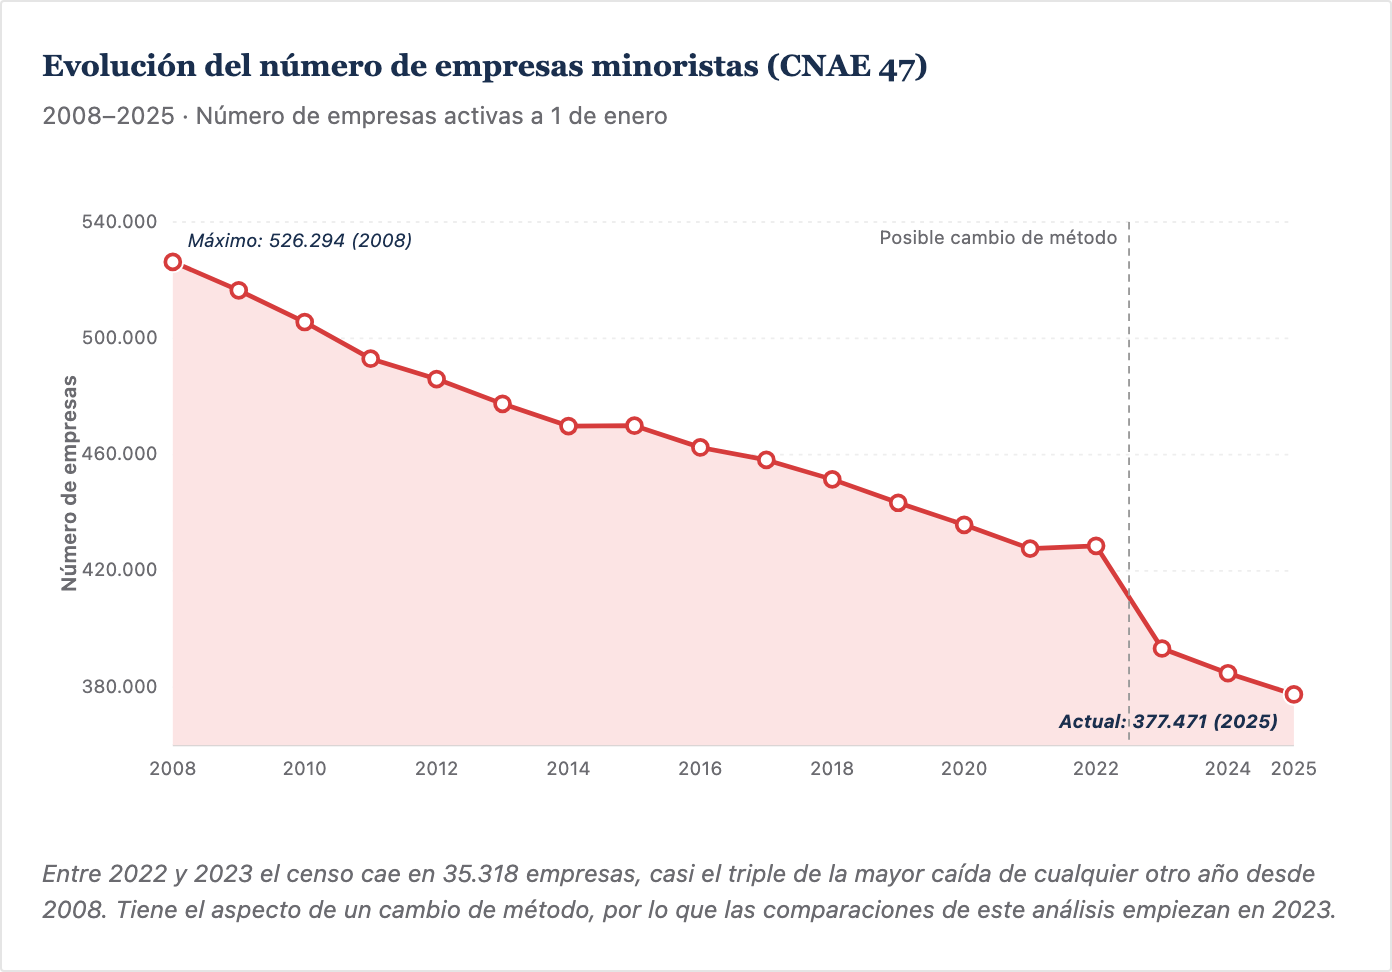
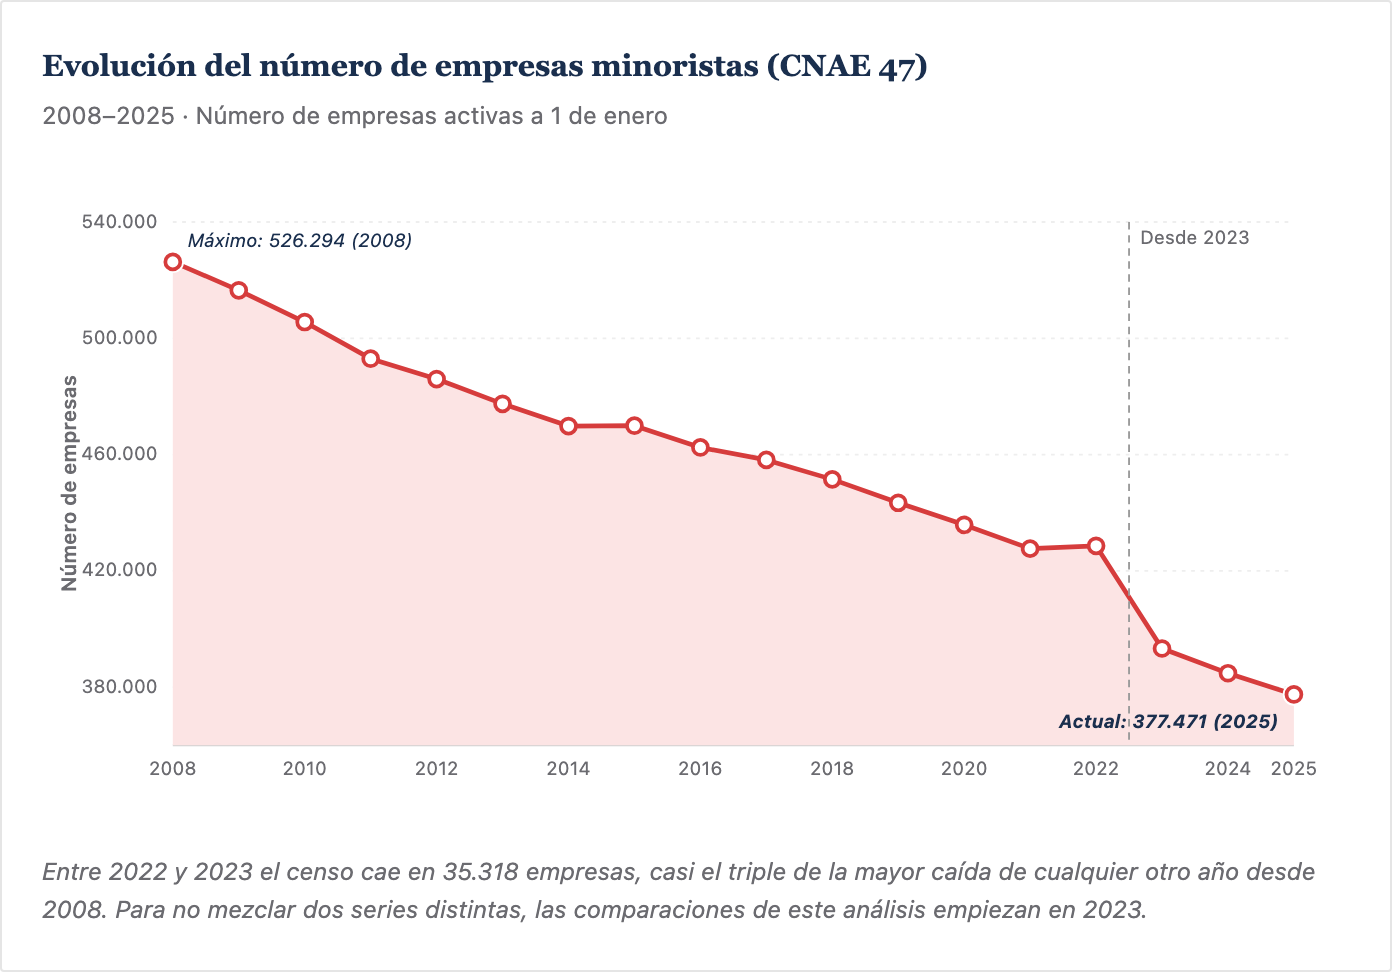
Núm. 22: titular nou, gràfic empreses sense 'cambio de método', predicció en prosa llana

diff --git a/docs/pulso/num-22.html b/docs/pulso/num-22.html
@@ -3,7 +3,7 @@
 <head>
   <meta charset="UTF-8">
   <meta name="viewport" content="width=device-width, initial-scale=1.0">
-  <title>El comercio cobra más y vende lo mismo: el informe del segundo trimestre · El Pulso de la semana</title>
+  <title>Más precio y menos empresas: el informe del segundo trimestre · El Pulso de la semana</title>
   <meta name="description" content="86 de cada 100 euros de crecimiento son precio, las pequeñas cadenas caen un 10% y el comercio pierde 22 empresas al día.">
   <meta name="author" content="Jordi Bacaria · J3B3 Consulting">
   <meta name="robots" content="index, follow">
@@ -12,7 +12,7 @@
 
   <!-- Open Graph -->
   <meta property="og:type" content="article">
-  <meta property="og:title" content="El comercio cobra más y vende lo mismo: el informe del segundo trimestre">
+  <meta property="og:title" content="Más precio y menos empresas: el informe del segundo trimestre">
   <meta property="og:description" content="86 de cada 100 euros de crecimiento son precio, las pequeñas cadenas caen un 10% y el comercio pierde 22 empresas al día.">
   <meta property="og:url" content="https://pulso.j3b3.com/pulso/num-22.html">
   <meta property="og:site_name" content="Observatorio del Comercio · J3B3 Consulting">
@@ -25,7 +25,7 @@
   {
     "@context": "https://schema.org",
     "@type": "NewsArticle",
-    "headline": "El comercio cobra más y vende lo mismo.",
+    "headline": "Más precio y menos empresas.",
     "description": "86 de cada 100 euros de crecimiento son precio, las pequeñas cadenas caen un 10% y el comercio pierde 22 empresas al día.",
     "datePublished": "2026-10-05T08:30:00+02:00",
     "dateModified": "2026-10-05T08:30:00+02:00",
@@ -293,7 +293,7 @@
   <article>
     <header>
       <p class="eyebrow">El Pulso de la semana · Núm. 22 · 5-11 octubre 2026</p>
-      <h1>El comercio cobra más y vende lo mismo.</h1>
+      <h1>Más precio y menos empresas.</h1>
       <p class="byline">Por <strong>Jordi Bacaria</strong> · J3B3 Consulting · 5 de octubre de 2026</p>
       <hr class="rule">
     </header>
@@ -307,14 +307,15 @@
 <p><img alt="Facturación y volumen de ventas del comercio minorista, enero 2025 - agosto 2026" src="https://pulso.j3b3.com/informes/img/2t-2026-acto1-precio.png" /></p>
 <p><strong>Acto II · Las pequeñas cadenas caen un 10%; las grandes crecen un 4%.</strong> Las cadenas de 25 tiendas o más crecen por encima del 3% todos los meses desde enero de 2025. Las de 2 a 24 tiendas caen un 6,9% en junio, un 7,0% en julio y un 10,0% en agosto. La serie no dice si son menos tiendas o menos venta por tienda. Es el dato que más nos preocupa del trimestre.</p>
 <p><img alt="Volumen de ventas de grandes y pequeñas cadenas, enero 2025 - agosto 2026" src="https://pulso.j3b3.com/informes/img/2t-2026-acto2-cadenas.png" /></p>
-<p><strong>Acto III · El comercio pierde 22 empresas al día.</strong> El censo del INE cuenta 377.471 empresas de comercio minorista a 1 de enero de 2025, 15.816 menos que dos años antes. En saldo neto, unas 22 al día. Asturias es la comunidad que más pierde (−6,8%) y Baleares, la que menos (−1,1%). Contamos desde 2023 porque el censo da un salto entre 2022 y 2023 que tiene el aspecto de un cambio de método.</p>
+<p><strong>Acto III · El comercio pierde 22 empresas al día.</strong> El censo del INE cuenta 377.471 empresas de comercio minorista a 1 de enero de 2025, 15.816 menos que dos años antes. En saldo neto, unas 22 al día. Asturias es la comunidad que más pierde (−6,8%) y Baleares, la que menos (−1,1%). Contamos desde 2023 para comparar datos homogéneos: el salto de 35.318 empresas entre 2022 y 2023 hace que los años anteriores no sean comparables.</p>
 <p><img alt="Número de empresas de comercio minorista, 2008-2025" src="https://pulso.j3b3.com/informes/img/2t-2026-acto3-empresas.png" /></p>
 <p><strong>Acto IV · La moda retiene 2,7 veces más margen que una gasolinera.</strong> De cada euro vendido, después de pagar la mercancía, el resto de gastos y el personal, al comercio minorista le quedan 7,3 céntimos. A la moda y el calzado, 11,8. A las gasolineras, 4,4. Datos de 2024, el último año publicado por el INE.</p>
 <p><img alt="Margen sobre ventas por rama del comercio minorista, 2024" src="https://pulso.j3b3.com/informes/img/2t-2026-acto4-margen.png" /></p>
 <hr />
 <h2>LA PREDICCIÓN</h2>
-<p>La del Núm. 21 se cumplió en sus dos partes: en agosto, el comercio sin gasolineras creció un 0,3% y el combustible cayó un 7,1%.</p>
-<p>Para el tercer trimestre, el volumen del conjunto cerrará por debajo del de 2025 y, sin estaciones de servicio, por encima. Lo que separa a los dos es el combustible, que en julio y agosto cae un 7,8%. Fallaría si septiembre crece más de un 1,4% en el conjunto o cae más de un 1,7% sin combustible. Lo sabremos a finales de octubre, con el ICM de septiembre.</p>
+<p>En el Núm. 21 dijimos que en agosto el comercio sin gasolineras seguiría creciendo y que el combustible seguiría cayendo. Acertamos las dos cosas: sin gasolineras el comercio creció un 0,3% y el combustible bajó un 7,1%.</p>
+<p>Ahora miramos al tercer trimestre, que son julio, agosto y septiembre. Nuestra previsión es que el comercio en su conjunto venderá menos que en el mismo trimestre de 2025 (una vez descontados los precios), pero que sin las gasolineras venderá algo más. La diferencia la pone el combustible, que en julio y agosto vende un 7,8% menos.</p>
+<p>Nos equivocaremos en dos casos: si en septiembre el total crece más de un 1,4% sobre septiembre de 2025, o si el comercio sin gasolineras cae más de un 1,7%. Lo sabremos a finales de octubre, cuando el INE publique los datos de septiembre.</p>
     </section>
 
     <div class="sources">

diff --git a/docs/pulso/index.html b/docs/pulso/index.html
@@ -49,7 +49,7 @@
     <p class="page-desc">Análisis semanal del sector retail español. Una cifra, nuestra lectura, el mapa europeo y una predicción concreta.</p>
   </header>
   <ul class="edition-list">
-<li class="edition-item"><span class="edition-num">Núm. 22</span><span class="edition-date">5 de octubre de 2026</span><a class="edition-link" href="https://pulso.j3b3.com/pulso/num-22.html">El comercio cobra más y vende lo mismo.</a><p class="edition-desc">86 de cada 100 euros de crecimiento son precio, las pequeñas cadenas caen un 10% y el comercio pierde 22 empresas al día.</p></li>
+<li class="edition-item"><span class="edition-num">Núm. 22</span><span class="edition-date">5 de octubre de 2026</span><a class="edition-link" href="https://pulso.j3b3.com/pulso/num-22.html">Más precio y menos empresas.</a><p class="edition-desc">86 de cada 100 euros de crecimiento son precio, las pequeñas cadenas caen un 10% y el comercio pierde 22 empresas al día.</p></li>
 <li class="edition-item"><span class="edition-num">Núm. 21</span><span class="edition-date">28 de septiembre de 2026</span><a class="edition-link" href="https://pulso.j3b3.com/pulso/num-21.html">El combustible explica la caída de julio.</a><p class="edition-desc">El dato que la prensa leyó como hundimiento tiene una dirección muy concreta. Y hay un giro de fondo que sí merece atención.</p></li>
 <li class="edition-item"><span class="edition-num">Núm. 20</span><span class="edition-date">21 de septiembre de 2026</span><a class="edition-link" href="https://pulso.j3b3.com/pulso/num-20.html">Más valor por hora. Menos para el sueldo.</a><p class="edition-desc">Seis años de datos sobre productividad, costes y reparto del valor en el comercio minorista español.</p></li>
 <li class="edition-item"><span class="edition-num">Núm. 19</span><span class="edition-date">14 de septiembre de 2026</span><a class="edition-link" href="https://pulso.j3b3.com/pulso/num-19.html">El comercio ha envejecido su plantilla.</a><p class="edition-desc">El tramo de 50+ casi se ha doblado desde 2008. Los menores de 25 han caído del 14,4% al 8,5%.</p></li>

diff --git a/docs/informes/comercio-minorista-2t-2026.html b/docs/informes/comercio-minorista-2t-2026.html
@@ -695,7 +695,7 @@
   <!-- HERO -->
   <div class="hero">
     <div class="kicker">Análisis trimestral · Sector CNAE 47</div>
-    <h1>El comercio cobra más y vende lo mismo</h1>
+    <h1>Más precio y menos empresas</h1>
     <p class="subtitle">Análisis trimestral · 2.º trimestre de 2026 (abril-junio), con datos hasta agosto · Observatorio del Comercio Minorista · J3B3 Consulting</p>
   </div>
 
@@ -850,7 +850,7 @@
         <svg class="chart-svg" id="chart2" viewBox="0 0 700 360" preserveAspectRatio="xMidYMid meet"></svg>
         <div class="tooltip" id="tooltip2"></div>
       </div>
-      <div class="mini-note">Entre 2022 y 2023 el censo cae en 35.318 empresas, casi el triple de la mayor caída de cualquier otro año desde 2008. Tiene el aspecto de un cambio de método, por lo que las comparaciones de este análisis empiezan en 2023.</div>
+      <div class="mini-note">Entre 2022 y 2023 el censo cae en 35.318 empresas, casi el triple de la mayor caída de cualquier otro año desde 2008. Para no mezclar dos series distintas, las comparaciones de este análisis empiezan en 2023.</div>
     </div>
 
     <div class="callout">
@@ -1352,8 +1352,8 @@ function drawChart2() {
   const iBrk = data.findIndex(d => d.y === 2023);
   const xBrk = (xScale(iBrk - 1) + xScale(iBrk)) / 2;
   svg.appendChild(svgEl('line', {x1: xBrk, y1: M.top, x2: xBrk, y2: M.top + ch, stroke: '#9a9a9a', 'stroke-width': '1', 'stroke-dasharray': '4,3'}));
-  const brkLbl = svgEl('text', {x: xBrk - 6, y: M.top + 12, 'text-anchor': 'end', class: 'axis-label'});
-  brkLbl.textContent = 'Posible cambio de método';
+  const brkLbl = svgEl('text', {x: xBrk + 6, y: M.top + 12, 'text-anchor': 'start', class: 'axis-label'});
+  brkLbl.textContent = 'Desde 2023';
   svg.appendChild(brkLbl);
 
   const peak = data[0];
